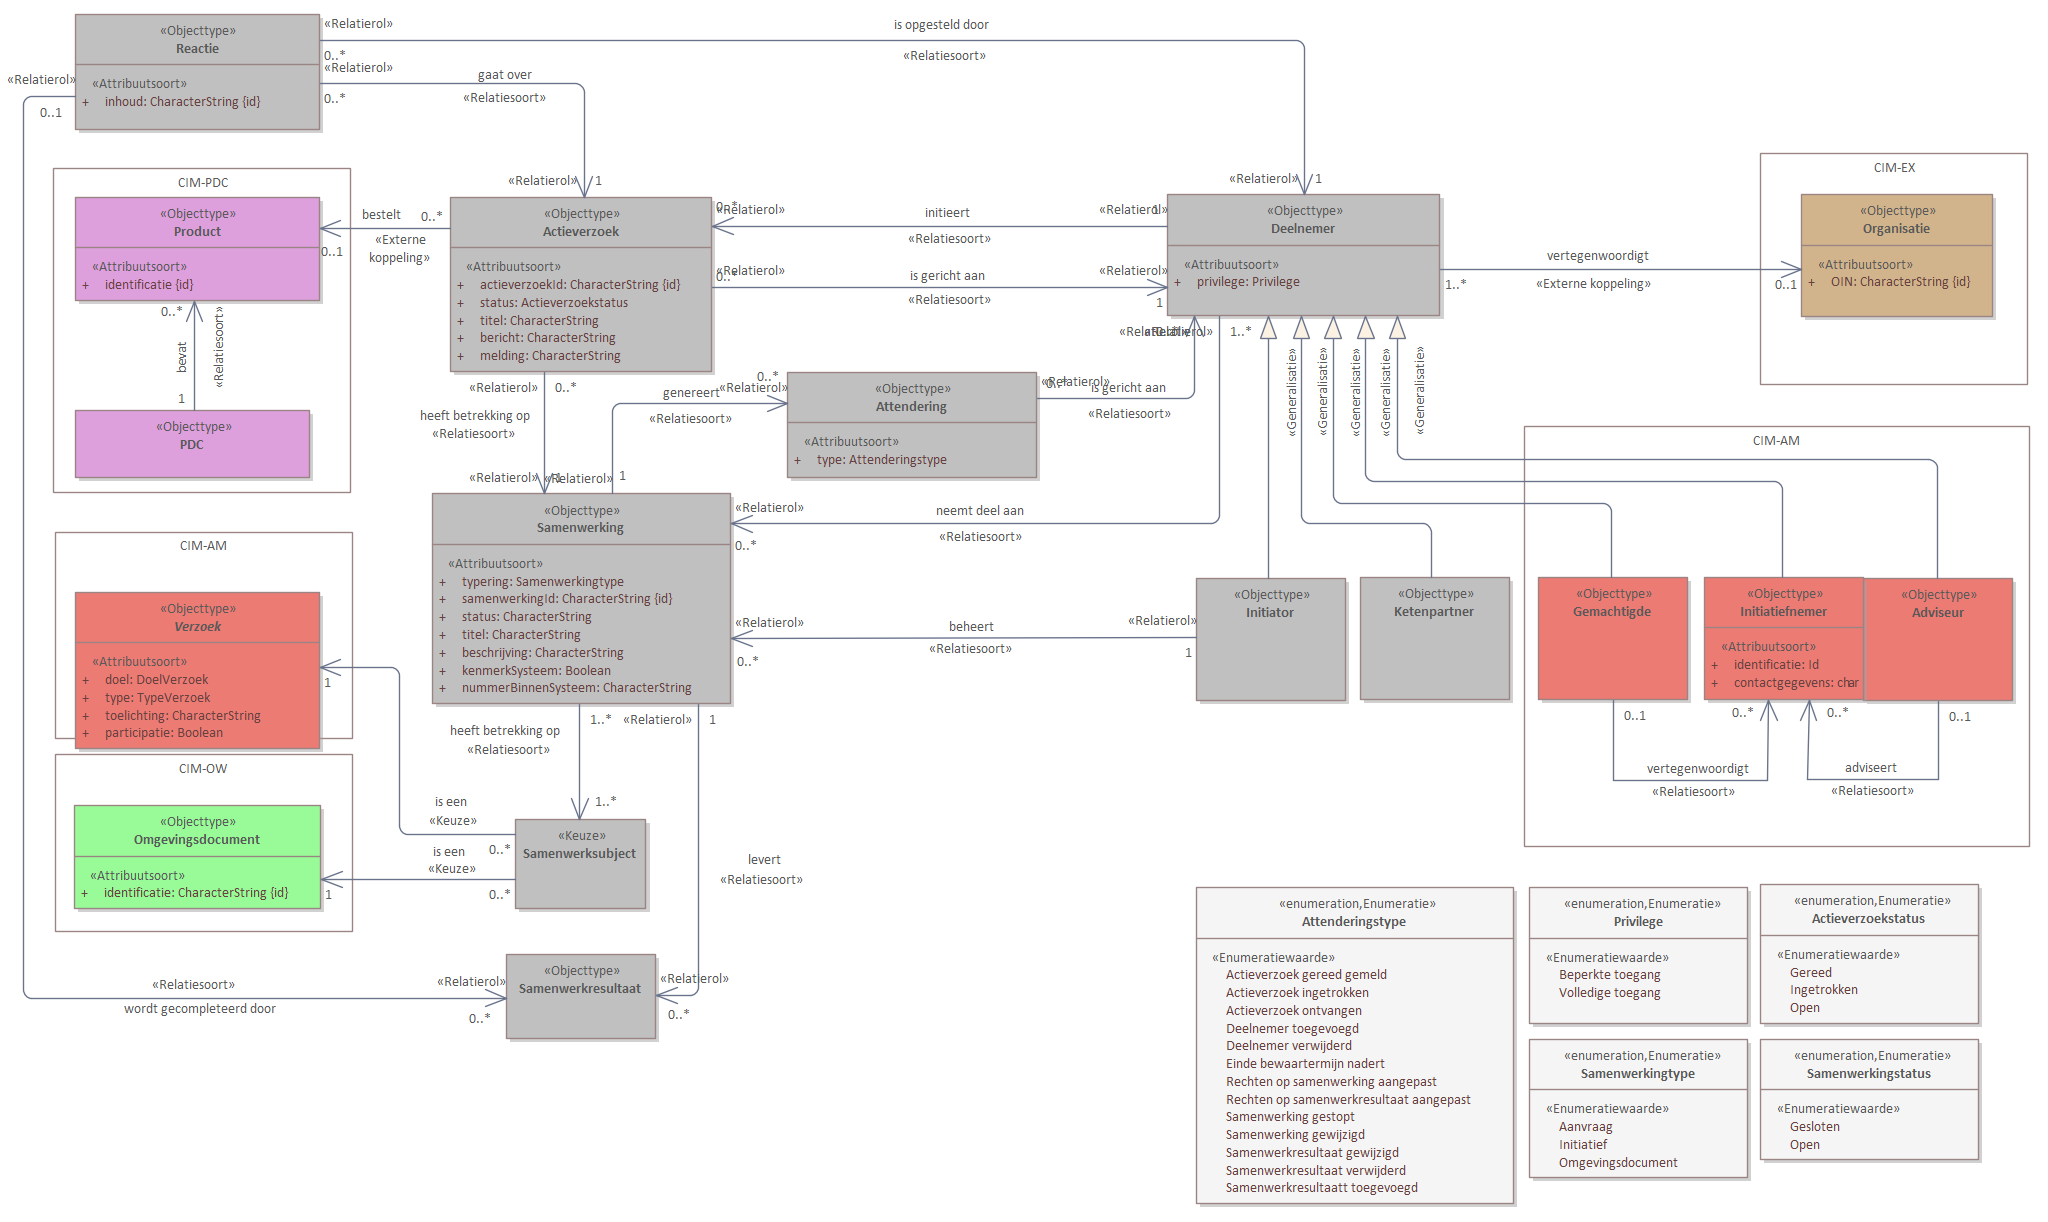
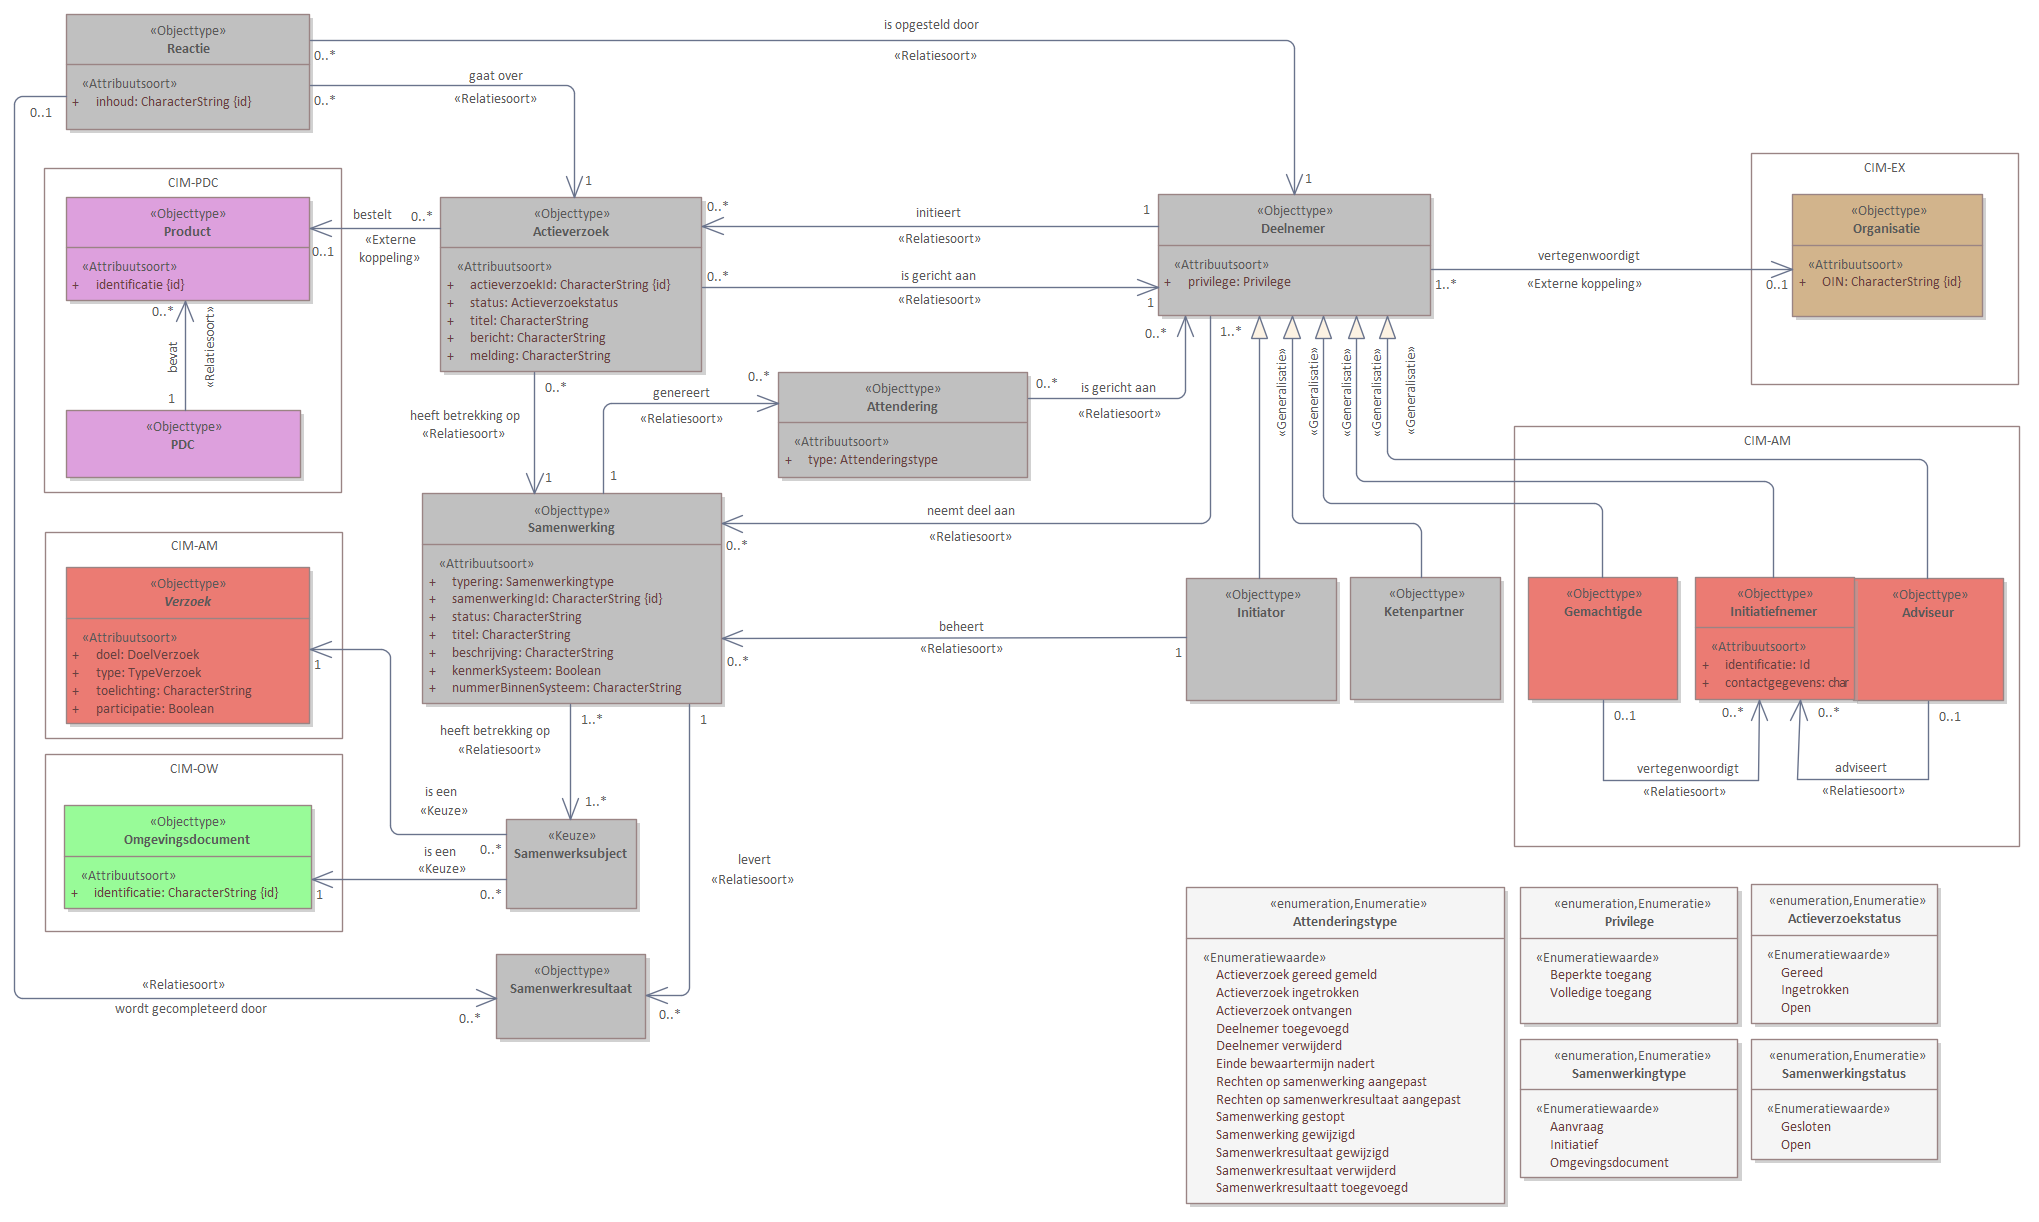
MIMCM-CIM-SWF-1.0-0-20230101-20231012-215207

diff --git a/data/CIM-SWF-cat.respec.html b/data/CIM-SWF-cat.respec.html
@@ -1,7 +1,7 @@
 
 <!DOCTYPE HTML><section id="cat" class="normative">
    <h2>Gegevensdefinitie</h2>
-   <!--MIMCM-CIM-SWF-1.0-0-20230101-20230928-194349 imvertor Nightly-build.10-->
+   <!--MIMCM-CIM-SWF-1.0-0-20230101-20231012-215207 imvertor Nightly-build.11-->
    <section id="EAID_148B391E_CCDB_471c_A289_54DA7F6CA2B1">
       <h3>   Context - overzicht</h3>
       <div class="imageinfo overview">
@@ -12,7 +12,7 @@
       <h3>   CIM-SWF - overzicht</h3>
       <div class="imageinfo overview">
          <figure><img src="data/Images/EAID_C94DE3A6_BF9B_4ca3_ADEC_2B78A1F24327.png" usemap="#imagemap-EAID_C94DE3A6_BF9B_4ca3_ADEC_2B78A1F24327" alt="Diagram &#xA;                        &#xA;                     "><figcaption>CIM-SWF</figcaption>
-         </figure><map name="imagemap-EAID_C94DE3A6_BF9B_4ca3_ADEC_2B78A1F24327"><area shape="rect" alt="Samenwerksubject" coords="515,819,646,909" href="#global_class_CIMSWF_Samenwerksubject"><area shape="rect" alt="Reactie" coords="75,14,320,130" href="#global_class_CIMSWF_Reactie"><area shape="rect" alt="" coords="1196,887,1514,1204" href="#global_class_CIMSWF_Attenderingstype"><area shape="rect" alt="Samenwerkresultaat" coords="506,954,656,1039" href="#global_class_CIMSWF_Samenwerkresultaat"><area shape="rect" alt="" coords="1760,884,1979,1024" href="#global_class_CIMSWF_Actieverzoekstatus"><area shape="rect" alt="" coords="1760,1039,1979,1160" href="#global_class_CIMSWF_Samenwerkingstatus"><area shape="rect" alt="" coords="1529,887,1748,1024" href="#global_class_CIMSWF_Privilege"><area shape="rect" alt="" coords="1529,1039,1748,1178" href="#global_class_CIMSWF_Samenwerkingtype"><area shape="rect" alt="Attendering" coords="787,372,1037,478" href="#global_class_CIMSWF_Attendering"><area shape="rect" alt="Actieverzoek" coords="450,197,712,372" href="#global_class_CIMSWF_Actieverzoek"><area shape="rect" alt="Ketenpartner" coords="1360,577,1510,700" href="#global_class_CIMSWF_Ketenpartner"><area shape="rect" alt="Initiator" coords="1196,578,1346,701" href="#global_class_CIMSWF_Initiator"><area shape="rect" alt="Deelnemer" coords="1167,194,1440,316" href="#global_class_CIMSWF_Deelnemer"><area shape="rect" alt="Samenwerking" coords="432,493,731,704" href="#global_class_CIMSWF_Samenwerking"></map></div>
+         </figure><map name="imagemap-EAID_C94DE3A6_BF9B_4ca3_ADEC_2B78A1F24327"><area shape="rect" alt="Samenwerksubject" coords="506,819,637,909" href="#global_class_CIMSWF_Samenwerksubject"><area shape="rect" alt="Reactie" coords="66,14,310,130" href="#global_class_CIMSWF_Reactie"><area shape="rect" alt="" coords="1186,887,1505,1204" href="#global_class_CIMSWF_Attenderingstype"><area shape="rect" alt="Samenwerkresultaat" coords="496,954,646,1039" href="#global_class_CIMSWF_Samenwerkresultaat"><area shape="rect" alt="" coords="1751,884,1938,1024" href="#global_class_CIMSWF_Actieverzoekstatus"><area shape="rect" alt="" coords="1751,1039,1938,1160" href="#global_class_CIMSWF_Samenwerkingstatus"><area shape="rect" alt="" coords="1520,887,1738,1024" href="#global_class_CIMSWF_Privilege"><area shape="rect" alt="" coords="1520,1039,1738,1178" href="#global_class_CIMSWF_Samenwerkingtype"><area shape="rect" alt="Attendering" coords="778,372,1028,478" href="#global_class_CIMSWF_Attendering"><area shape="rect" alt="Actieverzoek" coords="440,197,702,372" href="#global_class_CIMSWF_Actieverzoek"><area shape="rect" alt="Ketenpartner" coords="1350,577,1501,700" href="#global_class_CIMSWF_Ketenpartner"><area shape="rect" alt="Initiator" coords="1186,578,1337,701" href="#global_class_CIMSWF_Initiator"><area shape="rect" alt="Deelnemer" coords="1158,194,1431,316" href="#global_class_CIMSWF_Deelnemer"><area shape="rect" alt="Samenwerking" coords="422,493,722,704" href="#global_class_CIMSWF_Samenwerking"></map></div>
    </section>
    <section>
       <h3>Objecttypen   </h3>
@@ -2280,7 +2280,7 @@
 </section>
 <section id="lis" class="normative">
    <h2>Inhoud van waardenlijsten</h2>
-   <!--MIMCM-CIM-SWF-1.0-0-20230101-20230928-194349 imvertor Nightly-build.10-->
+   <!--MIMCM-CIM-SWF-1.0-0-20230101-20231012-215207 imvertor Nightly-build.11-->
    <section id="detail_class_CIMSWF_Actieverzoekstatus">
       <h3>Enumeratie details  Actieverzoekstatus</h3>
       
